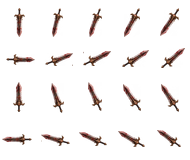
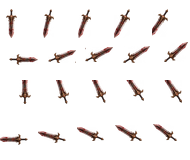
guerre

diff --git a/frontend/utils/gameLoader.ts b/frontend/utils/gameLoader.ts
@@ -868,16 +868,16 @@ export async function loadHeadsDB(): Promise<HeadsDB> {
 
 export async function loadWeaponsDB(): Promise<WeaponsDB> {
     return await fetchJsonWithFallback<WeaponsDB>(
-        "/init/armas.json?v=3.10",
-        "/init/armas.json?v=3.10",
+        "/init/armas.json?v=3.11",
+        "/init/armas.json?v=3.11",
         "Weapons database",
     );
 }
 
 export async function loadShieldsDB(): Promise<ShieldsDB> {
     return await fetchJsonWithFallback<ShieldsDB>(
-        "/init/escudos.json?v=3.14",
-        "/init/escudos.json?v=3.14",
+        "/init/escudos.json?v=3.16",
+        "/init/escudos.json?v=3.16",
         "Shields database",
     );
 }
